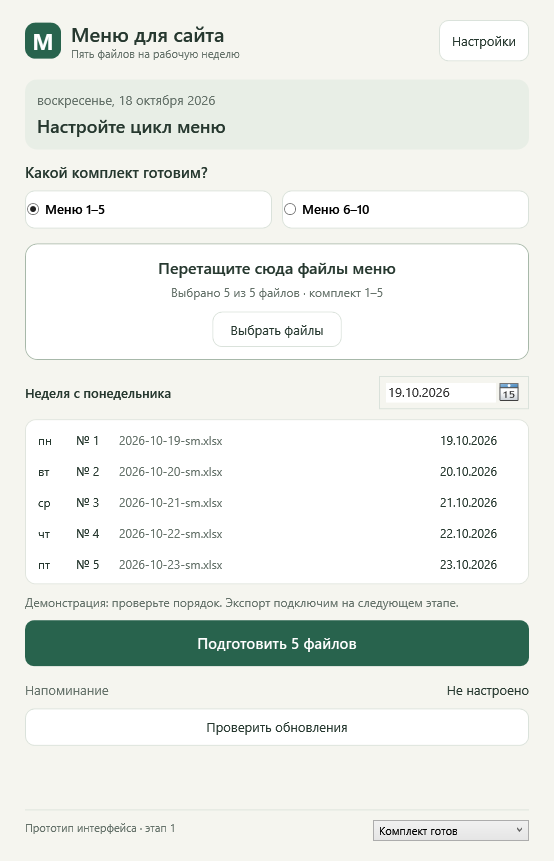
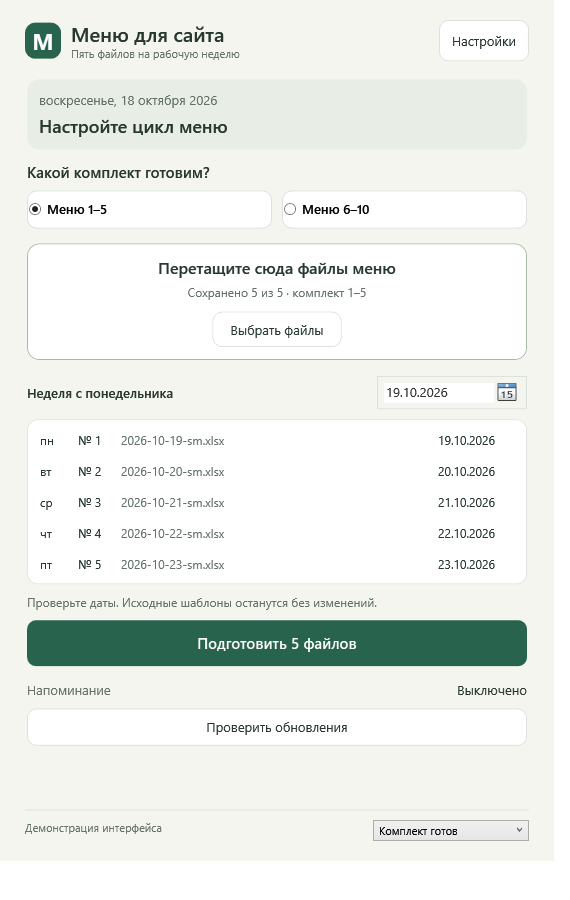
feat: settings tabs without scrolling and a show-widget button
- Settings split into tabs (cycle and folder, reminder, widget); the
  widget tab has "Показать виджет на рабочем столе".
- Main and import windows scale down instead of scrolling; update notes
  are shortened with a link to the GitHub release page.
- Launching from the shortcut always shows the widget, even after ✕;
  a second launch opens the program window. Autostart keeps the widget
  hidden if the user hid it.

diff --git a/src/MenuWidget.Prototype/MainWindow.xaml b/src/MenuWidget.Prototype/MainWindow.xaml
@@ -7,8 +7,9 @@
       <Button Content="Настройки" Click="Settings_Click" DockPanel.Dock="Right" Padding="12,7"/>
       <StackPanel><TextBlock Text="Меню для сайта" FontSize="20" FontWeight="SemiBold"/><TextBlock Text="Пять файлов на рабочую неделю" Foreground="{StaticResource Muted}" FontSize="11"/></StackPanel>
     </DockPanel>
-    <ScrollViewer Grid.Row="1" VerticalScrollBarVisibility="Auto" HorizontalScrollBarVisibility="Disabled">
-      <StackPanel>
+    <!-- No scrolling: on a short screen the whole page scales down instead. -->
+    <Viewbox Grid.Row="1" Stretch="Uniform" StretchDirection="DownOnly" VerticalAlignment="Top">
+      <StackPanel Width="500">
         <StackPanel x:Name="HomePanel">
           <Button x:Name="DragProbeSource" Content="Тест: перетащите отсюда пять искусственных файлов в область ниже" Visibility="Collapsed" PreviewMouseMove="DragProbe_MouseMove" Margin="0,0,0,12"/>
           <Border Background="#E8EEE6" CornerRadius="12" Padding="12" Margin="0,0,0,12">
@@ -43,31 +44,43 @@
           <TextBlock Text="Файлы остаются на вашем компьютере. Excel для работы программы не потребуется." Foreground="{StaticResource Muted}" Margin="0,18,0,0"/>
         </StackPanel>
         <StackPanel x:Name="SettingsPanel" Visibility="Collapsed">
-          <Button Content="← Назад к меню" HorizontalAlignment="Left" Click="Home_Click" Padding="12,7" Margin="0,0,0,16"/>
-          <TextBlock Text="Настройки" FontSize="25" FontWeight="SemiBold" Margin="0,0,0,20"/>
-          <TextBlock Text="Начало цикла" FontWeight="SemiBold" FontSize="16"/>
-          <TextBlock Text="Понедельник, когда используются меню 1–5. Каникулы и праздники не сдвигают чередование." Margin="0,6,0,10" Foreground="{StaticResource Muted}"/>
-          <DatePicker x:Name="AnchorPicker" AutomationProperties.Name="Понедельник начала цикла меню 1–5" Width="170" HorizontalAlignment="Left"/>
-          <Border Height="1" Background="#DEE4DC" Margin="0,23,0,23"/>
-          <TextBlock Text="Напоминание по воскресеньям" FontWeight="SemiBold" FontSize="16"/>
-          <CheckBox x:Name="ReminderEnabled" Content="Напоминать о подготовке меню" Margin="0,14,0,12"/>
-          <DockPanel><TextBlock Text="Время на этом компьютере" VerticalAlignment="Center"/><TextBox x:Name="ReminderTime" AutomationProperties.Name="Время воскресного напоминания, часы и минуты" Text="18:00" Width="90" HorizontalAlignment="Right"/></DockPanel>
-          <TextBlock Text="При закрытии окна программа остаётся у часов. Если компьютер был выключен, напоминание появится после входа в Windows." Foreground="{StaticResource Muted}" FontSize="12" Margin="0,12,0,20"/>
-          <Button Content="Проверить уведомление" Click="TestReminder_Click" Margin="0,0,0,14"/>
-          <TextBlock Text="Папка готовых меню" FontWeight="SemiBold" Margin="0,0,0,8"/>
-          <TextBox x:Name="OutputPath" IsReadOnly="True" TextWrapping="Wrap" Margin="0,0,0,8"/>
-          <Button Content="Выбрать папку" HorizontalAlignment="Left" Click="OutputFolder_Click" Margin="0,0,0,18"/>
-          <CheckBox x:Name="AutoStartCheck" Content="Запускать в трее при входе в Windows" Margin="0,0,0,12"/>
-          <CheckBox x:Name="TopmostCheck" Content="Закрепить поверх других окон" Checked="Topmost_Changed" Unchecked="Topmost_Changed" Margin="0,0,0,8"/>
-          <Border Height="1" Background="#DEE4DC" Margin="0,15,0,20"/>
-          <TextBlock Text="Виджет" FontWeight="SemiBold" FontSize="16"/>
-          <DockPanel Margin="0,12,0,8"><TextBlock Text="Тема" VerticalAlignment="Center"/><ComboBox x:Name="WidgetThemeBox" AutomationProperties.Name="Тема виджета" Width="190" HorizontalAlignment="Right"><ComboBoxItem Content="Как в Windows" Tag="system"/><ComboBoxItem Content="Светлая" Tag="light"/><ComboBoxItem Content="Тёмная" Tag="dark"/></ComboBox></DockPanel>
-          <DockPanel Margin="0,0,0,12"><TextBlock Text="Положение на экране" VerticalAlignment="Center"/><ComboBox x:Name="WidgetCornerBox" AutomationProperties.Name="Положение виджета" Width="190" HorizontalAlignment="Right"><ComboBoxItem Content="Справа сверху" Tag="top-right"/><ComboBoxItem Content="Справа снизу" Tag="bottom-right"/><ComboBoxItem Content="Слева сверху" Tag="top-left"/><ComboBoxItem Content="Слева снизу" Tag="bottom-left"/><ComboBoxItem Content="Куда я перетащил" Tag="custom"/></ComboBox></DockPanel>
-          <TextBlock x:Name="WidgetOpacityText" Text="Непрозрачность фона: 100%"/>
-          <Slider x:Name="WidgetOpacitySlider" AutomationProperties.Name="Непрозрачность фона виджета" Minimum="80" Maximum="100" TickFrequency="5" IsSnapToTickEnabled="True" Value="100" ValueChanged="WidgetOpacity_Changed" Margin="0,6,0,10"/>
-          <CheckBox x:Name="WidgetLockedCheck" Content="Закрепить виджет — не сдвигать мышью" Margin="0,0,0,24"/>
-          <Button Content="Сохранить настройки" Background="{StaticResource Green}" Foreground="White" Click="Apply_Click"/>
-          <TextBlock x:Name="SettingsFeedback" Text="Настройки сохраняются на этом компьютере." Foreground="{StaticResource Muted}" Margin="0,14,0,0" FontSize="12"/>
+          <DockPanel Margin="0,0,0,14"><Button Content="← Назад к меню" Click="Home_Click" Padding="12,7" DockPanel.Dock="Left"/><TextBlock Text="Настройки" FontSize="22" FontWeight="SemiBold" VerticalAlignment="Center" Margin="16,0,0,0"/></DockPanel>
+          <UniformGrid Columns="3" Margin="0,0,0,16">
+            <Border Background="White" CornerRadius="9" BorderBrush="#DAE2DB" BorderThickness="1" Margin="0,0,4,0"><RadioButton x:Name="CycleTab" Content="Цикл и папка" GroupName="SettingsTab" IsChecked="True" Checked="SettingsTab_Changed"/></Border>
+            <Border Background="White" CornerRadius="9" BorderBrush="#DAE2DB" BorderThickness="1" Margin="2,0,2,0"><RadioButton x:Name="ReminderTab" Content="Напоминание" GroupName="SettingsTab" Checked="SettingsTab_Changed"/></Border>
+            <Border Background="White" CornerRadius="9" BorderBrush="#DAE2DB" BorderThickness="1" Margin="4,0,0,0"><RadioButton x:Name="WidgetTab" Content="Виджет" GroupName="SettingsTab" Checked="SettingsTab_Changed"/></Border>
+          </UniformGrid>
+          <Border Background="White" CornerRadius="12" BorderBrush="#E0E5DE" BorderThickness="1" Padding="18,16" MinHeight="340">
+            <Grid>
+              <StackPanel x:Name="CycleSettings">
+                <TextBlock Text="Начало цикла" FontWeight="SemiBold" FontSize="15"/>
+                <TextBlock Text="Понедельник, когда используются меню 1–5. Каникулы и праздники не сдвигают чередование." Margin="0,6,0,10" Foreground="{StaticResource Muted}" FontSize="12"/>
+                <DatePicker x:Name="AnchorPicker" AutomationProperties.Name="Понедельник начала цикла меню 1–5" Width="170" HorizontalAlignment="Left"/>
+                <TextBlock Text="Папка готовых меню" FontWeight="SemiBold" FontSize="15" Margin="0,20,0,8"/>
+                <DockPanel><Button Content="Выбрать папку" Click="OutputFolder_Click" DockPanel.Dock="Right" Margin="8,0,0,0" Padding="12,7"/><TextBox x:Name="OutputPath" IsReadOnly="True" TextWrapping="NoWrap" VerticalContentAlignment="Center"/></DockPanel>
+                <CheckBox x:Name="AutoStartCheck" Content="Запускать при входе в Windows" Margin="0,20,0,10"/>
+                <CheckBox x:Name="TopmostCheck" Content="Поверх других окон (программа и виджет)" Checked="Topmost_Changed" Unchecked="Topmost_Changed"/>
+              </StackPanel>
+              <StackPanel x:Name="ReminderSettings" Visibility="Collapsed">
+                <TextBlock Text="Напоминание по воскресеньям" FontWeight="SemiBold" FontSize="15"/>
+                <CheckBox x:Name="ReminderEnabled" Content="Напоминать о подготовке меню" Margin="0,14,0,12"/>
+                <DockPanel><TextBlock Text="Время на этом компьютере" VerticalAlignment="Center"/><TextBox x:Name="ReminderTime" AutomationProperties.Name="Время воскресного напоминания, часы и минуты" Text="18:00" Width="90" HorizontalAlignment="Right"/></DockPanel>
+                <TextBlock Text="Программа остаётся у часов после закрытия окна. Если компьютер был выключен, напоминание появится после входа в Windows. Пока вы не ответите, оно повторяется каждые 30 минут." Foreground="{StaticResource Muted}" FontSize="12" Margin="0,12,0,16"/>
+                <Button Content="Проверить уведомление" Click="TestReminder_Click" HorizontalAlignment="Left" Padding="14,8"/>
+              </StackPanel>
+              <StackPanel x:Name="WidgetSettings" Visibility="Collapsed">
+                <Button Content="Показать виджет на рабочем столе" Click="ShowWidget_Click" Background="{StaticResource Green}" Foreground="White" Margin="0,0,0,6"/>
+                <TextBlock Text="✕ на виджете скрывает его. Вернуть: эта кнопка, ярлык MenuWidget или значок у часов → «Показать виджет»." Foreground="{StaticResource Muted}" FontSize="12" Margin="0,0,0,14"/>
+                <DockPanel Margin="0,0,0,8"><TextBlock Text="Тема" VerticalAlignment="Center"/><ComboBox x:Name="WidgetThemeBox" AutomationProperties.Name="Тема виджета" Width="190" HorizontalAlignment="Right"><ComboBoxItem Content="Как в Windows" Tag="system"/><ComboBoxItem Content="Светлая" Tag="light"/><ComboBoxItem Content="Тёмная" Tag="dark"/></ComboBox></DockPanel>
+                <DockPanel Margin="0,0,0,12"><TextBlock Text="Положение на экране" VerticalAlignment="Center"/><ComboBox x:Name="WidgetCornerBox" AutomationProperties.Name="Положение виджета" Width="190" HorizontalAlignment="Right"><ComboBoxItem Content="Справа сверху" Tag="top-right"/><ComboBoxItem Content="Справа снизу" Tag="bottom-right"/><ComboBoxItem Content="Слева сверху" Tag="top-left"/><ComboBoxItem Content="Слева снизу" Tag="bottom-left"/><ComboBoxItem Content="Куда я перетащил" Tag="custom"/></ComboBox></DockPanel>
+                <TextBlock x:Name="WidgetOpacityText" Text="Непрозрачность фона: 100%"/>
+                <Slider x:Name="WidgetOpacitySlider" AutomationProperties.Name="Непрозрачность фона виджета" Minimum="80" Maximum="100" TickFrequency="5" IsSnapToTickEnabled="True" Value="100" ValueChanged="WidgetOpacity_Changed" Margin="0,6,0,10"/>
+                <CheckBox x:Name="WidgetLockedCheck" Content="Закрепить виджет — не сдвигать мышью"/>
+              </StackPanel>
+            </Grid>
+          </Border>
+          <Button Content="Сохранить настройки" Background="{StaticResource Green}" Foreground="White" Click="Apply_Click" Margin="0,16,0,0"/>
+          <TextBlock x:Name="SettingsFeedback" Text="Настройки сохраняются на этом компьютере." Foreground="{StaticResource Muted}" Margin="0,10,0,0" FontSize="12"/>
         </StackPanel>
         <StackPanel x:Name="UpdatesPanel" Visibility="Collapsed">
           <Button Content="← Назад к меню" HorizontalAlignment="Left" Click="Home_Click" Padding="12,7" Margin="0,0,0,16"/>
@@ -75,7 +88,8 @@
           <Border Background="#E8EEE6" Padding="18" CornerRadius="12"><StackPanel><TextBlock Text="Вы управляете обновлением" FontSize="18" FontWeight="SemiBold"/><TextBlock Text="Программа покажет новую версию и список изменений. Установка начнётся после нажатия «Установить»." Margin="0,8,0,0"/></StackPanel></Border>
           <TextBlock Text="Источник: kuzmin-lemmi/MenuWidget · Windows x64" Margin="0,18,0,10"/>
           <TextBlock x:Name="UpdateStatus" Text="Нажмите «Проверить обновления»." Margin="0,0,0,12"/>
-          <TextBox x:Name="UpdateNotes" IsReadOnly="True" TextWrapping="Wrap" MaxHeight="210" VerticalScrollBarVisibility="Auto" Margin="0,0,0,12"/>
+          <TextBlock x:Name="UpdateNotes" TextWrapping="Wrap" TextTrimming="CharacterEllipsis" MaxHeight="190" FontSize="12" Foreground="{StaticResource Muted}" Margin="0,0,0,6"/>
+          <TextBlock Margin="0,0,0,12" FontSize="12"><Hyperlink NavigateUri="https://github.com/kuzmin-lemmi/MenuWidget/releases/latest" RequestNavigate="ReleasePage_Navigate">Полное описание на GitHub</Hyperlink></TextBlock>
           <ProgressBar x:Name="UpdateProgress" Height="6" Maximum="100" Margin="0,0,0,12"/>
           <Button Content="Проверить обновления" Click="CheckAgain_Click" Margin="0,0,0,8"/>
           <Button x:Name="InstallUpdate" Content="Установить новую версию" Click="InstallUpdate_Click" IsEnabled="False" Background="{StaticResource Green}" Foreground="White"/>
@@ -83,10 +97,10 @@
           <TextBlock Text="Во время установки программа закроется и откроется снова. Настройки и шаблоны сохранятся." Margin="0,16,0,0" Foreground="{StaticResource Muted}"/>
         </StackPanel>
       </StackPanel>
-    </ScrollViewer>
+    </Viewbox>
     <StackPanel Grid.Row="2" Margin="0,15,0,0">
       <Border Height="1" Background="#DEE4DC" Margin="0,0,0,10"/>
-      <DockPanel><TextBlock x:Name="VersionText" Text="MenuWidget · 0.2.0" FontSize="11" Foreground="{StaticResource Muted}"/><ComboBox x:Name="ScenePicker" Width="156" FontSize="11" HorizontalAlignment="Right" SelectionChanged="Scene_Changed" ToolTip="Демонстрационные состояния макета"><ComboBoxItem Content="Первый запуск" Tag="welcome"/><ComboBoxItem Content="Нет файлов" Tag="empty"/><ComboBoxItem Content="Часть файлов" Tag="partial"/><ComboBoxItem Content="Комплект готов" Tag="ready"/><ComboBoxItem Content="Ошибка" Tag="error"/><ComboBoxItem Content="Настройки" Tag="settings"/><ComboBoxItem Content="Обновления" Tag="updates"/></ComboBox></DockPanel>
+      <DockPanel><TextBlock x:Name="VersionText" Text="MenuWidget · 0.2.0" FontSize="11" Foreground="{StaticResource Muted}"/><ComboBox x:Name="ScenePicker" Width="156" FontSize="11" HorizontalAlignment="Right" SelectionChanged="Scene_Changed" ToolTip="Демонстрационные состояния макета"><ComboBoxItem Content="Первый запуск" Tag="welcome"/><ComboBoxItem Content="Нет файлов" Tag="empty"/><ComboBoxItem Content="Часть файлов" Tag="partial"/><ComboBoxItem Content="Комплект готов" Tag="ready"/><ComboBoxItem Content="Ошибка" Tag="error"/><ComboBoxItem Content="Настройки" Tag="settings"/><ComboBoxItem Content="Настройки виджета" Tag="settings-widget"/><ComboBoxItem Content="Обновления" Tag="updates"/></ComboBox></DockPanel>
     </StackPanel>
   </Grid>
   </Border>

diff --git a/src/MenuWidget.Prototype/ImportWindow.cs b/src/MenuWidget.Prototype/ImportWindow.cs
@@ -21,7 +21,7 @@ internal sealed class ImportWindow : Window
     private readonly List<ImportItem> items;
     private readonly MenuSetId set;
     private readonly XlsxDateEditor editor;
-    private readonly StackPanel rows = new();
+    private readonly StackPanel rows = new() { Width = 620 };
     private readonly TextBlock error = new() { Foreground = Brushes.Firebrick, TextWrapping = TextWrapping.Wrap, Margin = new(0, 10, 0, 10) };
     private readonly string[] days = ["Понедельник", "Вторник", "Среда", "Четверг", "Пятница"];
     public MenuSet Result => new(set, items.Select((item, i) => new MenuTemplate((DayOfWeek)(i + 1), item.Path, System.IO.Path.GetFileName(item.Path), new(item.Sheet, item.Address.Trim().ToUpperInvariant()))).ToArray());
@@ -29,7 +29,7 @@ internal sealed class ImportWindow : Window
     public ImportWindow(IEnumerable<ImportItem> items, MenuSetId set, XlsxDateEditor editor)
     {
         this.items = items.ToList(); this.set = set; this.editor = editor;
-        Title = "Проверьте пять меню"; Width = 710; Height = 760; MinWidth = 610; MinHeight = 600;
+        Title = "Проверьте пять меню"; Width = 710; Height = Math.Min(760, SystemParameters.WorkArea.Height - 20); MinWidth = 610; MinHeight = 480;
         WindowStartupLocation = WindowStartupLocation.CenterOwner;
         FontFamily = new FontFamily("Segoe UI"); FontSize = 13; Background = new SolidColorBrush(Color.FromRgb(245, 245, 239));
         var root = new DockPanel { Margin = new(22) };
@@ -48,7 +48,8 @@ internal sealed class ImportWindow : Window
         };
         buttons.Children.Add(cancel); buttons.Children.Add(save); bottom.Children.Add(buttons);
         DockPanel.SetDock(bottom, Dock.Bottom); root.Children.Add(bottom);
-        root.Children.Add(new ScrollViewer { Content = rows, VerticalScrollBarVisibility = ScrollBarVisibility.Auto }); Content = root;
+        // No scrolling: on a short screen the five rows scale down together.
+        root.Children.Add(new Viewbox { Child = rows, Stretch = Stretch.Uniform, StretchDirection = StretchDirection.DownOnly, VerticalAlignment = VerticalAlignment.Top }); Content = root;
         Rebuild();
     }
 
@@ -83,7 +84,7 @@ internal sealed class ImportWindow : Window
             }
             sheet.SelectionChanged += (_, _) => Validate(); address.TextChanged += (_, _) => Validate();
             fields.Children.Add(sheet); fields.Children.Add(address); fields.Children.Add(date); body.Children.Add(fields); Validate();
-            rows.Children.Add(new Border { Background = Brushes.White, CornerRadius = new(10), Padding = new(12), Margin = new(0, 0, 0, 10), Child = body });
+            rows.Children.Add(new Border { Background = Brushes.White, CornerRadius = new(10), Padding = new(12, 9, 12, 9), Margin = new(0, 0, 0, 8), Child = body });
         }
     }
 }

diff --git a/src/MenuWidget.Prototype/App.xaml.cs b/src/MenuWidget.Prototype/App.xaml.cs
@@ -49,7 +49,8 @@ public partial class App : Application
             if (e.Args.Contains("--background") && !settings.AutoStart) { Shutdown(); return; }
             if (e.Args.Contains("--check-reminder") && !ReminderRules.IsDue(DateTimeOffset.Now, new(settings.ReminderEnabled, settings.ReminderTime, TimeSpan.FromMinutes(30)), data.ReadReminderState())) { Shutdown(); return; }
             Runtime = new DesktopRuntime(this, e.Args.Contains("--check-reminder"));
-            instance.Listen("open", () => Dispatcher.BeginInvoke(() => Runtime.ShowMain()));
+            // Shortcut while running: first show a hidden widget, a second launch opens the program window.
+            instance.Listen("open", () => Dispatcher.BeginInvoke(() => { if (Runtime.WidgetVisible) Runtime.ShowMain(); else Runtime.ShowWidget(force: true); }));
             instance.Listen("check", () => Dispatcher.BeginInvoke(() => Runtime.CheckReminders()));
             instance.Listen("exit", () => Dispatcher.BeginInvoke(() => Runtime.RequestExit()));
             try { await Runtime.RestoreIntegrationsAsync(); }
@@ -58,8 +59,9 @@ public partial class App : Application
                 if (!silent) MessageBox.Show("Не удалось восстановить автозапуск или расписание: " + integrationError.Message + "\nПроверьте настройки программы.", "MenuWidget");
             }
             // The widget is the everyday face of the program; the full window opens on first run or when the widget is hidden.
-            if (!e.Args.Contains("--check-reminder")) Runtime.ShowWidget();
-            if (!silent && (settings.FirstWeekMonday is null || !Runtime.WidgetVisible)) Runtime.ShowMain();
+            // Launching from the shortcut always brings the widget back, even after ✕; autostart respects the hidden choice.
+            if (!e.Args.Contains("--check-reminder")) Runtime.ShowWidget(force: !silent);
+            if (!silent && settings.FirstWeekMonday is null) Runtime.ShowMain();
             Runtime.CheckReminders();
         }
         catch (Exception ex)
@@ -80,7 +82,7 @@ public partial class App : Application
         if (args.Length == 2 && args[0] == "--capture")
         {
             var output = Path.GetFullPath(args[1]); Directory.CreateDirectory(output);
-            foreach (var scene in new[] { "welcome", "empty", "partial", "ready", "error", "settings", "updates" })
+            foreach (var scene in new[] { "welcome", "empty", "partial", "ready", "error", "settings", "settings-widget", "updates" })
             {
                 window.SetScene(scene); await Dispatcher.InvokeAsync(() => { }, DispatcherPriority.ApplicationIdle); window.UpdateLayout();
                 Capture((FrameworkElement)window.Content, window.ActualWidth, window.ActualHeight, Path.Combine(output, scene + ".png"));

diff --git a/src/MenuWidget.Prototype/MainWindow.xaml.cs b/src/MenuWidget.Prototype/MainWindow.xaml.cs
@@ -76,7 +76,8 @@ public partial class MainWindow : Window
         if (!IsDemo) return;
         var item = ScenePicker.Items.OfType<ComboBoxItem>().FirstOrDefault(i => (string)i.Tag == scene);
         if (item is not null && ScenePicker.SelectedItem != item) ScenePicker.SelectedItem = item;
-        ShowPanel(scene is "welcome" or "settings" or "updates" ? scene : "home");
+        ShowPanel(scene is "welcome" or "settings" or "updates" ? scene : scene == "settings-widget" ? "settings" : "home");
+        if (scene is "settings" or "settings-widget") (scene == "settings" ? CycleTab : WidgetTab).IsChecked = true;
         if (scene is "empty" or "partial" or "ready" or "error")
         {
             Array.Clear(demoFiles[SetIndex]); message = null; messageIsError = scene == "error";
@@ -250,6 +251,21 @@ public partial class MainWindow : Window
     private async void Updates_Click(object sender, RoutedEventArgs e) { if (!busy) { ShowPanel("updates"); await CheckUpdatesAsync(); } }
     private async void CheckAgain_Click(object sender, RoutedEventArgs e) => await CheckUpdatesAsync();
     private void CancelUpdate_Click(object sender, RoutedEventArgs e) => updateCancellation?.Cancel();
+    // Settings are split into tabs so each fits the window without scrolling.
+    private void SettingsTab_Changed(object sender, RoutedEventArgs e)
+    {
+        if (CycleSettings is null || ReminderSettings is null || WidgetSettings is null) return; // Raised while the XAML is still loading.
+        CycleSettings.Visibility = CycleTab.IsChecked == true ? Visibility.Visible : Visibility.Collapsed;
+        ReminderSettings.Visibility = ReminderTab.IsChecked == true ? Visibility.Visible : Visibility.Collapsed;
+        WidgetSettings.Visibility = WidgetTab.IsChecked == true ? Visibility.Visible : Visibility.Collapsed;
+    }
+    private void ReleasePage_Navigate(object sender, System.Windows.Navigation.RequestNavigateEventArgs e)
+    {
+        try { Process.Start(new ProcessStartInfo(e.Uri.AbsoluteUri) { UseShellExecute = true }); }
+        catch (Exception ex) { UpdateStatus.Text = "Не удалось открыть страницу: " + ex.Message; }
+        e.Handled = true;
+    }
+    private void ShowWidget_Click(object sender, RoutedEventArgs e) { if (!IsDemo) ((App)Application.Current).Runtime?.ShowWidget(force: true); }
     private void TestReminder_Click(object sender, RoutedEventArgs e) { if (!IsDemo) ((App)Application.Current).Runtime!.TestNotification(); }
     private async Task CheckUpdatesAsync()
     {

diff --git a/docs/DESKTOP_FEATURES.md b/docs/DESKTOP_FEATURES.md
@@ -19,9 +19,10 @@
 - Если меню недели ещё не подготовлены, щелчок предлагает подготовить их из сохранённых шаблонов: одно подтверждение — и открывается новая папка. Шаблоны не меняются. Если комплект не сохранён или цикл не настроен, открывается программа.
 - В выходные и при неотвеченном напоминании, пока меню не готовы, виджет выделяется рамкой и надписью «Пора!».
 - Настройки → «Виджет»: тема (как в Windows, светлая, тёмная), положение (четыре угла экрана или «Куда я перетащил»), непрозрачность фона 80–100 %, «Закрепить виджет» — не сдвигать мышью. Перетаскивание переключает положение на «Куда я перетащил»; место запоминается в `widget.json`.
-- ⚙ открывает программу, ✕ скрывает виджет; вернуть его можно из меню значка в трее («Показать виджет»). Скрытый виджет не показывается и при автозапуске.
-- При обычном запуске и автозапуске открывается виджет; полное окно — при первом запуске (цикл не настроен) или если виджет скрыт. Виджет обновляется раз в 30 секунд и сразу после подготовки файлов и сохранения настроек. Режим «Поверх других окон» действует и на виджет.
+- ⚙ открывает программу, ✕ скрывает виджет. Вернуть его: ярлык MenuWidget, кнопка «Показать виджет на рабочем столе» в настройках или значок у часов → «Показать виджет». Скрытый виджет не показывается только при автозапуске.
+- Запуск с ярлыка всегда показывает виджет; полное окно открывается при первом запуске (цикл не настроен) или повторным запуском ярлыка, когда виджет уже на экране. Виджет обновляется раз в 30 секунд и сразу после подготовки файлов и сохранения настроек. Режим «Поверх других окон» действует и на виджет.
 - У программы, ярлыков и значка в трее свой значок — зелёная «М» вместо стандартного значка Windows.
+- Без вертикальных прокруток (после 0.3.1, не выпущено): настройки разбиты на вкладки «Цикл и папка», «Напоминание», «Виджет»; на вкладке «Виджет» кнопка «Показать виджет на рабочем столе». Если окно программы или окно импорта не помещается по высоте экрана, содержимое уменьшается целиком. Описание обновления показывается коротко со ссылкой на полную страницу GitHub.
 
 ## Напоминание и обслуживание (с 0.3.1)
 
